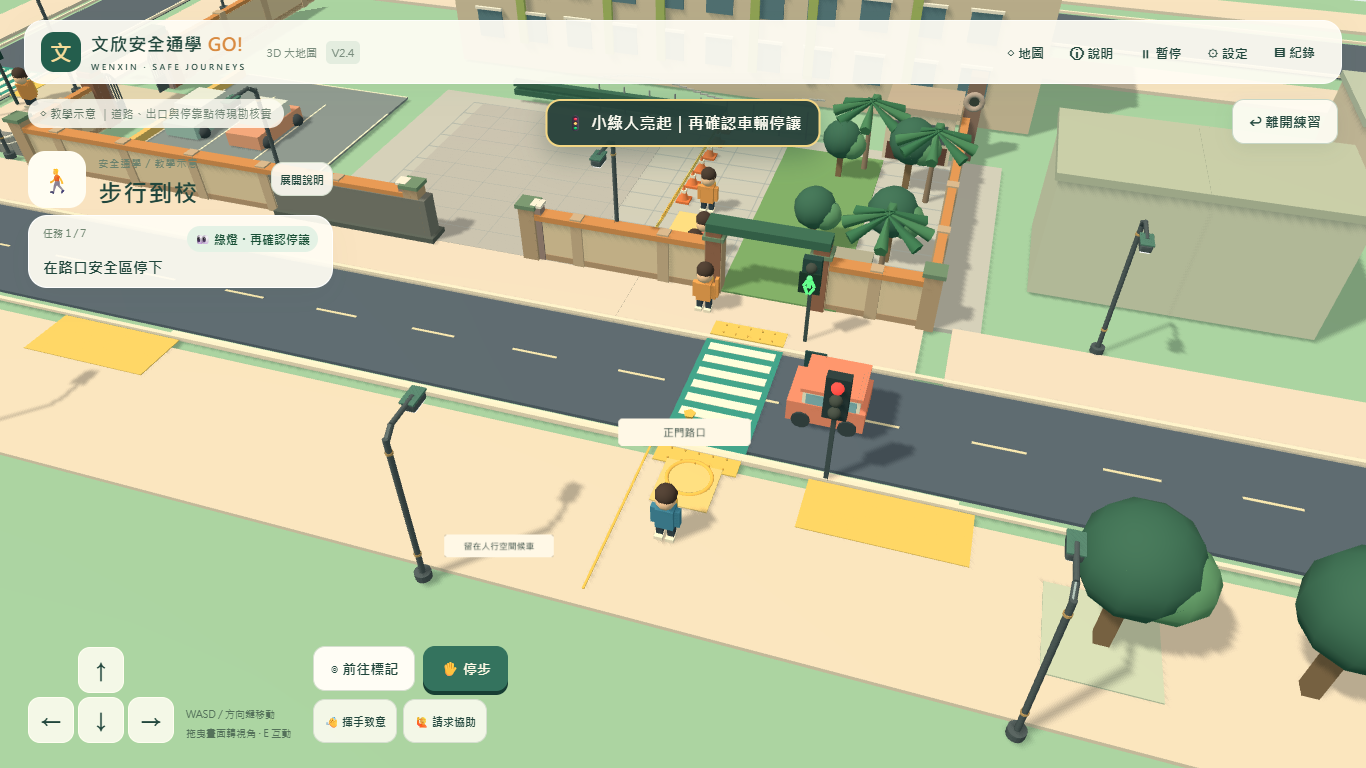
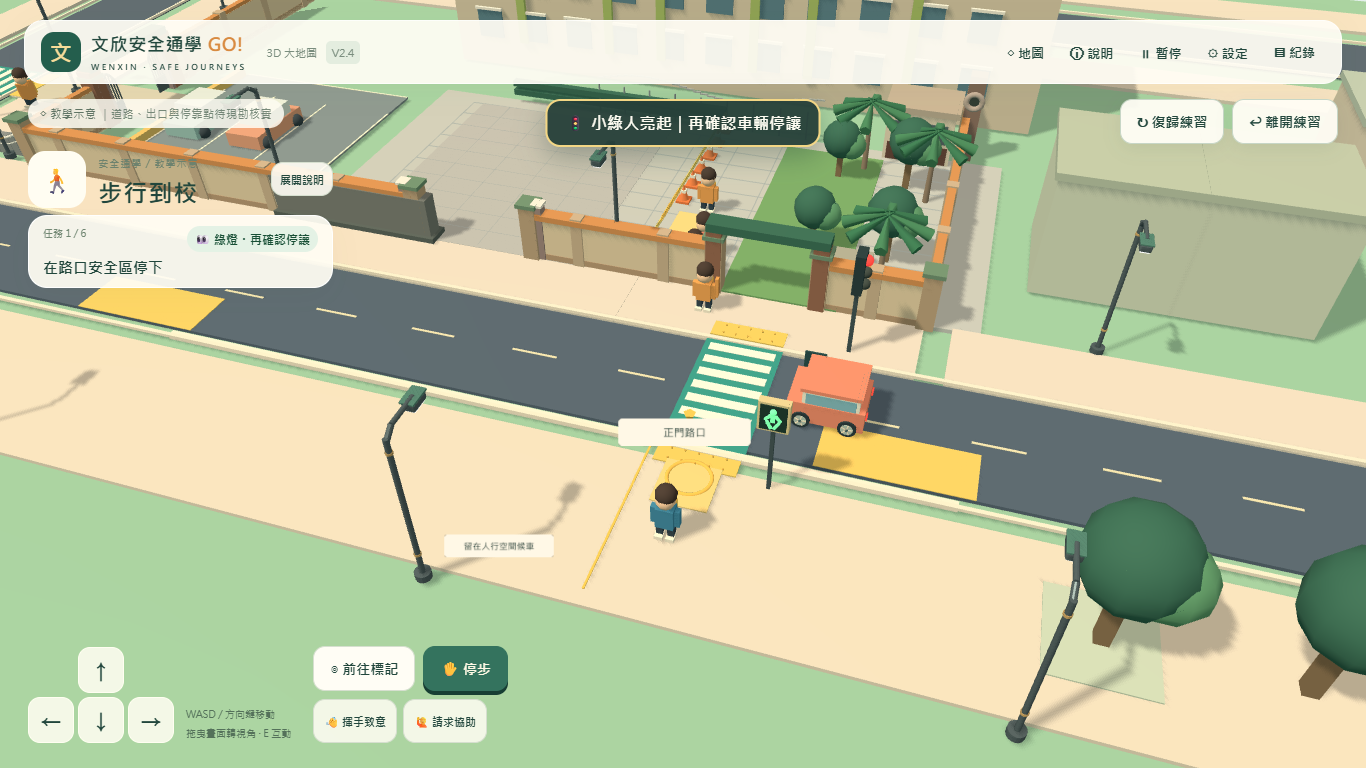
Separate pedestrian figures from vehicle traffic lights

diff --git a/src/world.ts b/src/world.ts
@@ -2,15 +2,15 @@ import * as THREE from 'three';
 import type {Journey} from './game/journey';
 import type {Point} from './safety/checkpoints';
 import {exploreSites} from './game/explore';
-import {crossings} from './game/streetMap';
+import {crossings,signalPlacements} from './game/streetMap';
 import {GLTFLoader} from 'three/addons/loaders/GLTFLoader.js';
 const palette={grass:0x9bcba8,path:0xe5dcc7,road:0x536575,cream:0xfff2d3,green:0x386e59,mint:0x82bca3,coral:0xef8f71,yellow:0xffca59,blue:0x428cb4};
 export class World {
   scene=new THREE.Scene();camera=new THREE.PerspectiveCamera(43,1,.1,300);renderer:THREE.WebGLRenderer;
   root=new THREE.Group();avatar=new THREE.Group();vehicle=new THREE.Group();leadScooter=new THREE.Group();gate=new THREE.Group();marker=new THREE.Group();trafficCar=new THREE.Group();sideTrafficCar=new THREE.Group();passenger=new THREE.Group();improvement=new THREE.Group();exploreMarkers=new THREE.Group();landmarkVehicles=new THREE.Group();transportCabin=new THREE.Group();scooterCabin=new THREE.Group();parentCabin=new THREE.Group();
-  greenLamp!:THREE.Mesh;redLamp!:THREE.Mesh;guardArm!:THREE.Mesh;belt!:THREE.Mesh;parentBelt!:THREE.Mesh;helmet!:THREE.Mesh;stationRoof!:THREE.Mesh;
-  sideGreenLamp!:THREE.Mesh;sideRedLamp!:THREE.Mesh;sideGuardArm!:THREE.Mesh;
-  private pedestrianFigures:THREE.Group[]=[];private pedestrianFigureMaterial=this.mat(0x315f4e);private vehicleSignals:{red:THREE.Mesh;amber:THREE.Mesh;green:THREE.Mesh}[]=[];
+  guardArm!:THREE.Mesh;belt!:THREE.Mesh;parentBelt!:THREE.Mesh;helmet!:THREE.Mesh;stationRoof!:THREE.Mesh;
+  sideGuardArm!:THREE.Mesh;
+  private pedestrianSignals:{red:THREE.Group;green:THREE.Group}[]=[];private vehicleSignals:{red:THREE.Mesh;amber:THREE.Mesh;green:THREE.Mesh}[]=[];
   yaw=.3;distance=25;overview=false;reduced=false;low=false;private focus=new THREE.Vector3(-3,0,-2);private ray=new THREE.Raycaster();private clock=0;private lastMode='';private objects:THREE.Object3D[]=[];private readonly labels=new Set<THREE.Sprite>();private readonly labelPosition=new THREE.Vector3();private readonly mapFog=new THREE.Fog(0xe4f0ec,75,225);private readonly wheelOrigins=new WeakMap<THREE.Group,{x:number;z:number}>();
   constructor(readonly container:HTMLElement){
     this.scene.background=new THREE.Color(0xe4f0ec);this.scene.fog=this.mapFog;
@@ -46,23 +46,35 @@ export class World {
     const canvas=document.createElement('canvas');canvas.width=768;canvas.height=160;const c=canvas.getContext('2d')!;c.fillStyle=bg;c.beginPath();c.roundRect(0,0,768,160,22);c.fill();c.fillStyle=fg;c.font='bold 62px "Microsoft JhengHei", sans-serif';c.textAlign='center';c.textBaseline='middle';c.fillText(text,384,82,730);const tex=new THREE.CanvasTexture(canvas);tex.colorSpace=THREE.SRGBColorSpace;const sprite=new THREE.Sprite(new THREE.SpriteMaterial({map:tex,depthTest:true}));sprite.position.set(x,y,z);sprite.scale.set(width,width*160/768,1);sprite.userData.labelText=text;sprite.visible=false;parent.add(sprite);this.labels.add(sprite);return sprite;
   }
   person(color:number){const group=new THREE.Group();this.box(.55,.75,.4,color,0,.88,0,group);this.ball(.31,0xf6cfa8,0,1.55,0,group);this.ball(.33,0x483b33,0,1.72,-.04,group);this.box(.54,.12,.35,0x483b33,0,1.62,-.12,group);this.box(.2,.43,.24,0x354956,-.17,.28,0,group);this.box(.2,.43,.24,0x354956,.17,.28,0,group);this.box(.26,.12,.4,0xfff6df,-.17,.1,.06,group);this.box(.26,.12,.4,0xfff6df,.17,.1,.06,group);this.box(.46,.57,.22,palette.yellow,0,.95,-.3,group);this.box(.15,.62,.2,color,-.36,.9,0,group);this.box(.15,.62,.2,color,.36,.9,0,group);return group;}
-  private pedestrianFigure(x:number,y:number,z:number){
-    const figure=new THREE.Group();const part=(w:number,h:number,px:number,py:number,angle=0)=>{const mesh=new THREE.Mesh(new THREE.BoxGeometry(w,h,.055),this.pedestrianFigureMaterial);mesh.position.set(px,py,0);mesh.rotation.z=angle;figure.add(mesh);return mesh;};
-    const head=new THREE.Mesh(new THREE.SphereGeometry(.09,10,8),this.pedestrianFigureMaterial);head.position.y=.22;figure.add(head);
-    part(.13,.26,0,.03);part(.08,.22,-.11,.04,-.45);part(.08,.22,.11,.04,.45);part(.08,.25,-.07,-.2,.4);part(.08,.25,.09,-.2,-.5);
-    this.box(.62,.68,.055,0x173c31,0,0,-.08,figure);figure.position.set(x,y,z);figure.scale.setScalar(1.2);this.root.add(figure);this.pedestrianFigures.push(figure);return figure;
+  private pedestrianSignal(x:number,z:number,facing:number){
+    const signal=new THREE.Group();signal.position.set(x,0,z);signal.rotation.y=facing;
+    this.box(.12,3.25,.12,0x405458,0,1.625,0,signal);
+    this.box(.94,1.07,.27,0xe2d29a,0,3.05,.02,signal);
+    this.box(.79,.92,.29,0x173a31,0,3.05,.04,signal);
+    const icon=(walking:boolean)=>{
+      const figure=new THREE.Group();figure.position.set(0,3.04,.23);
+      const color=walking?0x66ff91:0xff6158;
+      const material=this.mat(color);material.emissive.setHex(color);material.emissiveIntensity=.9;
+      const part=(w:number,h:number,px:number,py:number,angle=0)=>{const mesh=new THREE.Mesh(new THREE.BoxGeometry(w,h,.065),material);mesh.position.set(px,py,0);mesh.rotation.z=angle;figure.add(mesh);};
+      const head=new THREE.Mesh(new THREE.SphereGeometry(.105,10,8),material);head.position.y=.29;figure.add(head);
+      part(.14,.28,0,.055);
+      if(walking){part(.085,.25,-.15,.07,-.7);part(.085,.25,.15,.07,.7);part(.09,.29,-.105,-.205,.48);part(.09,.29,.115,-.205,-.52);}
+      else{part(.075,.24,-.15,.035,-.1);part(.075,.24,.15,.035,.1);part(.085,.27,-.07,-.205,0);part(.085,.27,.07,-.205,0);}
+      signal.add(figure);return figure;
+    };
+    const red=icon(false),green=icon(true);this.pedestrianSignals.push({red,green});this.root.add(signal);
   }
-  private vehicleSignal(x:number,z:number){
-    this.box(.14,3.3,.14,0x405458,x,1.65,z);this.box(.72,1.52,.34,0x263d40,x,3.45,z);
-    const lamp=(y:number)=>this.ball(.2,0x44504a,x,y,z+.21);
+  private vehicleSignal(x:number,z:number,facing:number){
+    const signal=new THREE.Group();signal.position.set(x,0,z);signal.rotation.y=facing;
+    this.box(.14,3.3,.14,0x405458,0,1.65,0,signal);this.box(.72,1.52,.34,0x263d40,0,3.45,0,signal);
+    const lamp=(y:number)=>this.ball(.2,0x44504a,0,y,.21,signal);
     this.vehicleSignals.push({red:lamp(3.92),amber:lamp(3.45),green:lamp(2.98)});
+    this.root.add(signal);
   }
   private showSignals(pedestrianGreen:boolean,vehicleMoving:boolean){
     const light=(mesh:THREE.Mesh,on:boolean,color:number)=>{const material=mesh.material as THREE.MeshStandardMaterial;material.color.setHex(on?color:0x44504a);material.emissive.setHex(on?color:0x000000);material.emissiveIntensity=on?.65:0;};
-    for(const [red,green] of [[this.redLamp,this.greenLamp],[this.sideRedLamp,this.sideGreenLamp]]){light(red,!pedestrianGreen,0xff443e);light(green,pedestrianGreen,0x61ff8f);}
-    this.pedestrianFigureMaterial.color.setHex(pedestrianGreen?0x66ff91:0x315f4e);this.pedestrianFigureMaterial.emissive.setHex(pedestrianGreen?0x35dd5f:0x000000);this.pedestrianFigureMaterial.emissiveIntensity=pedestrianGreen?.9:0;
+    for(const signal of this.pedestrianSignals){signal.red.visible=!pedestrianGreen;signal.green.visible=pedestrianGreen;}
     for(const signal of this.vehicleSignals){light(signal.red,!vehicleMoving,0xff443e);light(signal.amber,false,0xffc94d);light(signal.green,vehicleMoving,0x5de987);}
-    for(const figure of this.pedestrianFigures)figure.visible=pedestrianGreen;
     this.container.dataset.pedestrianSignal=pedestrianGreen?'green-man':'red';this.container.dataset.vehicleSignal=vehicleMoving?'green':'red';
   }
   tree(x:number,z:number,scale=1){const group=new THREE.Group();this.box(.35,2,.35,0x8b7354,0,1,0,group);this.ball(1.25,palette.green,0,2.8,0,group);this.ball(.9,0x609e72,.7,2.5,.1,group);group.position.set(x,0,z);group.scale.setScalar(scale);this.root.add(group);}
@@ -126,7 +138,7 @@ export class World {
     this.label('車行入口・學生止步',-6,1.2,-1.2,4);
     this.gate.position.set(1,0,-5);this.root.add(this.gate);for(let z=-1.2;z<=1.2;z+=.16){const link=new THREE.Mesh(new THREE.TorusGeometry(.11,.025,5,8),this.mat(palette.yellow));link.position.set(0,.95,z);link.rotation.y=Math.PI/2;this.gate.add(link);}this.label('指定登車口',-.4,2.1,-5,3);
     const guard=this.person(0xf1a758);guard.position.set(4,0,.2);this.root.add(guard);this.guardArm=this.box(.12,.8,.2,0xf1a758,.48,1.1,0,guard);this.label('導護站',4,2.5,.2,2.5);
-    this.box(.12,3,.12,0x3e5556,8,1.5,1);this.box(.65,1.2,.3,0x244d49,8,3,1);this.redLamp=this.ball(.2,0xe95b4e,8,3.3,1.2);this.greenLamp=this.ball(.2,0x2d8666,8,2.8,1.2);this.pedestrianFigure(8,2.78,1.43);this.vehicleSignal(10,7.45);
+    const mainSignals=signalPlacements.main;this.pedestrianSignal(mainSignals.pedestrian.x,mainSignals.pedestrian.z,mainSignals.pedestrian.facing);this.vehicleSignal(mainSignals.vehicle.x,mainSignals.vehicle.z,mainSignals.vehicle.facing);
     const adult=this.person(0xf1a758);adult.position.set(2.2,0,-6.5);this.root.add(adult);this.label('等成人放行',2.2,2.8,-7,3);
     for(let i=0;i<2;i++){const kid=this.person(i===0?palette.coral:palette.mint);kid.position.set(3,0,-3.1+i*1.3);this.root.add(kid);}
     this.passenger=this.person(palette.coral);this.root.add(this.passenger);
@@ -163,10 +175,7 @@ export class World {
     const sideGuard=this.person(0xf1a758);sideGuard.position.set(-33,0,-6);this.root.add(sideGuard);
     this.sideGuardArm=this.box(.12,.8,.2,0xf1a758,.48,1.1,0,sideGuard);
     this.label('側門導護站',-33,2.5,-6,3);
-    this.box(.12,3,.12,0x3e5556,-34,1.5,-6);
-    this.box(.65,1.2,.3,0x244d49,-34,3,-6);
-    this.sideRedLamp=this.ball(.2,0xe95b4e,-34,3.3,-5.8);
-    this.sideGreenLamp=this.ball(.2,0x2d8666,-34,2.8,-5.8);this.pedestrianFigure(-34,2.78,-5.55);this.vehicleSignal(-34.2,-4.4);
+    const sideSignals=signalPlacements.side;this.pedestrianSignal(sideSignals.pedestrian.x,sideSignals.pedestrian.z,sideSignals.pedestrian.facing);this.vehicleSignal(sideSignals.vehicle.x,sideSignals.vehicle.z,sideSignals.vehicle.facing);
     // Corner ramps and low-poly street furniture set the two-block walking scale.
     for(const x of [-33.5,38.5])for(const z of [-26,0]){const ramp=this.box(2.2,.1,1.8,0xe2d3b5,x,.02,z);ramp.rotation.x=z===0?.06:-.06;}
     for(const [x,z] of [[30,-17],[-48,-22],[54,-22],[-52,-29],[58,-29]]){this.box(5,3.8,4.8,0xdfd5bf,x,1.9,z);this.box(5.3,.28,5.1,0xb8c8b7,x,3.95,z);for(const wx of [-1.3,1.3])this.box(.9,1,.08,0x8db3bb,x+wx,2.6,z+2.45);}

diff --git a/tests/safety/evaluator.test.ts b/tests/safety/evaluator.test.ts
@@ -5,7 +5,7 @@ import {chainCollision,chainWalls,gateWall,intersects} from '../../src/safety/ch
 import {scenarios,validateScenario} from '../../src/data/scenarios';
 import {Journey} from '../../src/game/journey';
 import {Exploration,exploreSites,nearbySite} from '../../src/game/explore';
-import {campusParkingArea,campusWalls,crossings,crossesVehicleGate,frontRoad,hitsCampusWall,onPedestrianSpace,onMarkedCrosswalk} from '../../src/game/streetMap';
+import {campusParkingArea,campusWalls,crossings,crossesVehicleGate,frontRoad,hitsCampusWall,onPedestrianSpace,onMarkedCrosswalk,otherRoads,signalPlacements} from '../../src/game/streetMap';
 
 const evaluator=new SafetyRuleEvaluator();
 describe('Fail closed: every prerequisite is necessary',()=>{
@@ -34,6 +34,18 @@ describe('V2.4 scene data validation',()=>{
   it('the MRT journey requires walking to a station, entering, tapping, boarding and exiting',()=>{const mrt=scenarios.find(s=>s.mode==='mrt')!;const ids=new Journey(mrt).steps.map(s=>s.id);expect(ids.slice(0,5)).toEqual(['assembly','station','fareGate','identify','queue']);expect(ids).toContain('platform');expect(ids.indexOf('stationExit')).toBeGreaterThan(ids.indexOf('alight'));expect(ids.indexOf('walkToSchool')).toBeGreaterThan(ids.indexOf('stationExit'));});
   it('one map has all practice sites but blocks road and chain shortcuts',()=>{expect(exploreSites).toHaveLength(scenarios.length);const e=new Exploration();expect(nearbySite(e.position)?.scenario.id).toBe('walk');expect(e.move(1,0)).toBe(true);e.position={x:6,z:8};let blocked='';e.onResult=r=>{blocked=r.ruleId;};expect(e.move(0,-2)).toBe(false);expect(blocked).toBe('vehicleLane');e.position={x:3,z:-5};expect(e.move(-5,0)).toBe(false);expect(blocked).toBe('barrier');});
   it('the Fuxing North side approach begins in another block and has its own marked crossing',()=>{expect(crossings).toHaveLength(2);expect(crossings[1]).toMatchObject({x:-38,z:-8});const e=new Exploration();e.position={x:-43,z:-24};expect(nearbySite(e.position)?.scenario.id).toBe('walk_side');for(let z=-23;z<=-10;z++){expect(onPedestrianSpace({x:-43,z})).toBe(true);expect(e.move(0,1)).toBe(true);}expect(onMarkedCrosswalk({x:-38,z:-8})).toBe(true);expect(onMarkedCrosswalk({x:-38,z:4.5})).toBe(false);expect(e.move(5,0)).toBe(false);});
+  it('pedestrian figures face the waiting sides while vehicle lights stand across both roads',()=>{
+    const main=signalPlacements.main,side=signalPlacements.side;
+    expect(main.pedestrian.z).toBeGreaterThan(frontRoad.maxZ);
+    expect(main.vehicle.z).toBeLessThan(frontRoad.minZ);
+    expect(side.pedestrian.x).toBeLessThan(otherRoads[0].minX);
+    expect(side.vehicle.x).toBeGreaterThan(otherRoads[0].maxX);
+    for(const pair of [main,side]){
+      expect(onPedestrianSpace(pair.pedestrian)).toBe(true);
+      expect(onPedestrianSpace(pair.vehicle)).toBe(true);
+      expect(Math.hypot(pair.pedestrian.x-pair.vehicle.x,pair.pedestrian.z-pair.vehicle.z)).toBeGreaterThan(6);
+    }
+  });
   it('both school crossings go directly to the gate after pre-crossing safety checks',()=>{for(const id of ['walk','walk_side','guard','school_bus_gate_exterior','parent','parent_east','scooter_main']){const scenario=scenarios.find(s=>s.id===id)!;const j=new Journey(scenario);const ids=j.steps.map(step=>step.id);expect(ids.slice(ids.indexOf('stop'),ids.indexOf('destination')+1),id).toEqual(['stop','left','right','wait','cross','destination']);expect(ids).not.toContain('guard');}});
   it('side entrance requires its own crossing safety checks and ends on the campus side',()=>{const side=scenarios.find(s=>s.id==='walk_side')!;const j=new Journey(side);expect(j.steps.map(step=>step.id)).toEqual(['approachSide','stop','left','right','wait','cross','destination']);expect(j.steps[0].target).toEqual({x:-43,z:-10});expect(j.steps.at(-1)?.target).toEqual({x:-27,z:-8});j.position={x:-41,z:-8};expect(j.move(2,0)).toBe(false);expect(j.blocked?.ruleId).toBe('cross');});
   it('four perimeter sides block shortcuts while the small main and side gates stay open',()=>{

diff --git a/tests/e2e/game.spec.ts b/tests/e2e/game.spec.ts
@@ -118,6 +118,7 @@ for(const size of sizes){
         const button=(await page.locator('#interact').boundingBox())!;
         expect(button.x+button.width).toBeLessThanOrEqual(size.width);
         expect(button.height).toBeGreaterThanOrEqual(44);
+        if(size.width===390)await page.screenshot({path:'docs/screenshots/mobile-pedestrian-signal-390.png'});
       }
       await moveAndAct(page);
     }
@@ -208,7 +209,15 @@ test('side gate uses a separate crossing, guard and Blender street model',async(
   await start(page,'walk_side');expect(Number(await page.locator('#app').getAttribute('data-x'))).toBeLessThan(-40);expect(Number(await page.locator('#app').getAttribute('data-z'))).toBeLessThan(-20);
   const model=await page.request.get('/models/street_furniture.glb');expect(model.ok()).toBe(true);expect((await model.body()).byteLength).toBeGreaterThan(10000);
   mkdirSync('docs/screenshots',{recursive:true});await page.screenshot({path:'docs/screenshots/side-gate-1366.png'});
-  for(let i=0;i<8;i++)await moveAndAct(page);await expect(page.locator('#result')).toBeVisible();expect(errors).toEqual([]);
+  for(let i=0;i<8;i++){
+    if(await stage(page)==='wait'){
+      await expect(page.locator('#world')).toHaveAttribute('data-pedestrian-signal','green-man',{timeout:20000});
+      await expect(page.locator('#world')).toHaveAttribute('data-vehicle-signal','red');
+      await page.screenshot({path:'docs/screenshots/side-gate-signals-1366.png'});
+    }
+    await moveAndAct(page);
+  }
+  await expect(page.locator('#result')).toBeVisible();expect(errors).toEqual([]);
 });
 test('waiting on vehicle approach path is physically blocked',async({page})=>{
   await start(page,'school_bus_gate_exterior');await page.keyboard.down('ArrowUp');await expect(page.locator('#feedback')).toBeVisible({timeout:6000});await page.keyboard.up('ArrowUp');await expect(page.locator('#feedback-message')).toContainText('候車');expect(Number(await page.locator('#app').getAttribute('data-z'))).toBeGreaterThan(10.6);

diff --git a/src/game/streetMap.ts b/src/game/streetMap.ts
@@ -5,6 +5,12 @@ export const crossings=[
   {id:'main',x:6,z:4.5,label:'正門路口'},
   {id:'side',x:-38,z:-8,label:'復興北路側門路口・示意'},
 ] as const;
+// Pedestrian heads face the waiting child; three-aspect vehicle heads face oncoming traffic
+// across each road. Exact roadside hardware positions remain teaching illustrations.
+export const signalPlacements={
+  main:{pedestrian:{x:8.4,z:8.3,facing:0},vehicle:{x:9.6,z:1.1,facing:Math.PI/2}},
+  side:{pedestrian:{x:-42.3,z:-6.4,facing:Math.PI/2},vehicle:{x:-34.2,z:-4.4,facing:0}},
+} as const;
 export const sidewalkRegions:Box[]=[
   {minX:-57,maxX:86,minZ:7.4,maxZ:14},       // 文昌五街南側
   {minX:-35,maxX:40,minZ:-1.2,maxZ:1.7},   // 圍牆與車道間的連續校側人行道

diff --git a/README.md b/README.md
@@ -29,7 +29,7 @@ npm run preview
 2. 靠近金色地點按「開始練習」，從地圖當下位置進入實作流程。地圖中的「輔助定位」可把角色帶到所選地點的安全等候區；步行方向也可在地圖選擇。每種練習右上方都有「復歸練習」與「離開練習」：復歸從本次安全起點重來，離開則回到大地圖的本次起點；暫停與錯誤提示中也有這兩個按鈕，已記錄的匿名安全操作仍保留。安親班接駁在獨立示意目的地完成後，按「回到本次起點大地圖」會用輔助定位返回，避免角色困在沒有步行連接的區域。
 3. 走近練習中的金色圓圈，按 E 或互動鍵，也可點 3D 標記、車門、扶手與座椅。「前往標記」是單手替代走路，仍受相同碰撞及安全檢查，不自動互動。
 4. 路口先實際停步、看左、看右，再按「確認行人號誌燈號」；看到小綠人並確認轉彎車停讓及安全導護後，沿斑馬線通行。行人紅燈時按鍵會立即阻擋並提示重試。安全走到對面後直接沿人行步道進校門，不再停下向導護重複確認；走進校門後自動完成步行練習。
-   正門與側門路口現在會在 3D 場景顯示小綠人和車用紅綠燈；車用紅燈時示意車輛停在斑馬線前。車輪有可見的輪框輻條，隨車身位移滾動，靠站前減速、煞車燈亮起，停穩後輪子停止；家長汽車在確認停妥前以車外視角顯示。畫面上方的狀態條會提示「紅燈停等」「小綠人亮起」「車已停讓」；即使亮綠燈仍須完成停看與確認停讓。車輛靠站時也會顯示「行進中」及「已停穩」，手機提示不會蓋住方向與互動按鈕。
+   正門與側門路口的行人號誌放在學生等候側，只顯示紅色站立人形或小綠人；車用三色紅綠燈放在馬路另一側，面向來車，不和行人圖案共用燈箱。車用紅燈時示意車輛停在斑馬線前。車輪有可見的輪框輻條，隨車身位移滾動，靠站前減速、煞車燈亮起，停穩後輪子停止；家長汽車在確認停妥前以車外視角顯示。畫面上方的狀態條會提示「紅燈停等」「小綠人亮起」「車已停讓」；即使亮綠燈仍須完成停看與確認停讓。車輛靠站時也會顯示「行進中」及「已停穩」，手機提示不會蓋住方向與互動按鈕。
    正門小門與校園圍牆位於校園和人行道交界，人行道完整保留在圍牆與車道之間，可直接步行進校；四面圍牆僅在受控車行入口及兩處步行門留出開口。側門在復興北路一側的教學街廓，學生由外側街區沿人行道走來，經獨立的斑馬線、號誌與導護後，由上學開放的側門進校。側門圍牆旁是停車場，沒有建築；學生走分隔步道，不進入停車區。進入大地圖先顯示「四面圍牆」鳥瞰，按「回到角色」即可近距離行走；側門可在地圖選取「復興北路側門步行」前往。道路角度、停車格、號誌與門口尺寸仍是教學示意，待現勘確認。
 5. 安親班接駁：**站在正門朝校外看**，左側是樹蔭／學生步道，中央是連續錐鏈，右側是小型接駁車。學生沿錐鏈內側的步道走到正門小門；集合 → 星星 01 核對 → 隊尾等候 → 成人確認 → 指定口 → 車門 → 02A → 拖曳／點按扣好帶扣 → 乘車 → 停穩解扣 → 依序下車 → 示意目的地交接。校車只在校門外獨立區域。
 6. 家長汽車**上學送學**位於正門兩側短暫停靠示意區，學生從車內開始，不必在校門集合、核對車號或排隊上車。等家長停妥後解帶、看車門後方來車與自行車、選靠人行道側下車、關門並走到人行道，再依號誌及車流走斑馬線進校。家長確認安全後儘速駛離；遊戲不以操作速度計分，也不鼓勵匆忙開門。機車送學分在正門車道邊緣與復興北路側門口的獨立示意點，**機車不沿人行道行駛**；大地圖上可見前車先駛離、後車再入位。學生保持安全帽與坐穩，停穩後確認後方與行人再下車、走回步道，避免與兩側汽車短停混流。黃線實際臨停規則、時段與格位須依現場標誌和校方安排核實，遊戲不作真實停車指引。
@@ -86,3 +86,5 @@ build 自動產生靜態資源清單與 Service Worker。preview 首次下載並
 2026-11-04 號誌與提示更新：正門／側門 3D 小綠人、車用紅綠燈、停在斑馬線前的示意車流，及車輛行進／停穩、機車前車駛離的醒目狀態條已加入；正門機車移至車道邊緣。`npm install` 無弱點，最終版 lint、typecheck、378 項單元測試、build 通過；相關 Playwright 完整路線與號誌／手機提示分批通過，正式預覽三尺寸及離線 4/4 通過。現地號誌秒數、停車位置與車行方向仍待核對；測試細節見 `docs/TEST_REPORT.md`。
 
 2026-11-05 過街操作更新：正門與側門的互動鍵及任務目標改為「確認行人號誌燈號」；紅燈停等、小綠人及車輛停讓條件維持，過街後直接入校。`npm install` 0 弱點；lint、typecheck、380 項單元測試及 build 通過；正門／側門完整過街 2/2、手機步行與接駁 1/1、正式預覽三尺寸及離線 4/4 通過。現地號誌秒數、停車位置與車行方向仍待核對；測試細節見 `docs/TEST_REPORT.md`。
+
+2026-11-05 號誌分位更新：正門與側門的行人燈改為獨立紅人／小綠人燈箱，設在學生等候側；車用三色燈設於道路另一側，面向來車。行人綠燈時車用紅燈與車輛停讓仍連動。本機 lint、typecheck、381 項單元測試、build、正側門與手機瀏覽器流程、正式版三尺寸及離線測試通過；現地號誌位置及秒數仍屬教學示意，詳見 `docs/TEST_REPORT.md`。

diff --git a/docs/TEST_REPORT.md b/docs/TEST_REPORT.md
@@ -2,6 +2,12 @@
 
 日期：2026-11-05（Asia/Taipei）。Windows 開發環境。
 
+## 2026-11-05 行人與車用號誌分開建模
+
+- 正門行人燈移到學生等候側、車用三色燈移到馬路另一側；側門採相同分位。行人燈箱只顯示站立紅人或行走小綠人，車用燈箱才有紅黃綠圓燈。`signalPlacements` 的單元測試檢查兩處燈箱分處道路兩側並相隔超過 6 個遊戲單位。
+- `npm install` 0 弱點，`npm run lint`、`npm run typecheck`、`npm run test`（381/381）、`npm run build` 通過。Playwright 正門綠人／車燈連動與側門完整過街 2/2，側門轉向後再測 1/1，390×844 手機步行與接駁 1/1；正式版 `npm run test:offline` 4/4，涵蓋 1366×768、768×1024、390×844 與離線重載；本機預覽 HTTP 200。
+- 已目視檢查 `screenshots/green-man-crossing-1366.png`、`screenshots/side-gate-signals-1366.png`、`screenshots/mobile-pedestrian-signal-390.png`：學生等候側只見人形行人燈，車用三色燈在道路另一側。現地設備位置與實機 iOS／Android 仍待核實。
+
 ## 2026-11-05 過街行人號誌確認
 
 - 正門與復興北路側門到達路緣時，任務目標與互動鍵均顯示「確認行人號誌燈號」；提示明確要求先看小綠人及車輛停讓。共用安全評估器原有紅燈、停看、車輛停讓與斑馬線條件未放寬，通過後仍直接入校。

diff --git a/docs/PROGRESS.md b/docs/PROGRESS.md
@@ -1,5 +1,12 @@
 # 開發進度 — V2.4 開放式大地圖
 
+2026-11-05 行人／車用號誌分位：
+
+- [x] 正門與復興北路側門的行人號誌改為獨立人形燈箱，紅燈顯示站立紅人，綠燈顯示行走小綠人；移除行人燈箱上的紅綠圓燈。行人燈設於學生等候側並朝向等候者；車用三色圓燈設於道路另一側、朝向來車，避免學生把車燈當作過街指示。
+- [x] 兩處號誌仍以同一安全狀態連動：小綠人亮時車用紅燈與車輛停讓；路口操作前的停、看與停讓檢查維持。路口外觀截圖已檢查，側門燈箱朝向也已修正。
+- [x] `npm install` 0 弱點，lint、typecheck、381/381 單元測試及正式建置通過；正門號誌與側門完整過街 2/2，側門修正後再測 1/1，手機步行接駁 1/1，正式版離線與三尺寸 4/4。桌面正門／側門及手機行人燈截圖已檢查，本機預覽 HTTP 200；詳見 `docs/TEST_REPORT.md`。
+- [ ] 號誌實際位置、面向及秒數屬教學示意，待現地核對；iOS／Android 實機尚未驗收。
+
 2026-11-05 過街號誌確認用語修正：
 
 - [x] 正門與復興北路側門的過街操作，由「確認安全」改為「確認行人號誌燈號」；目標、互動按鈕、提示及操作說明一致。紅燈仍禁止通行，小綠人亮起也須完成停看並確認車輛停讓；過街後直接入校。
